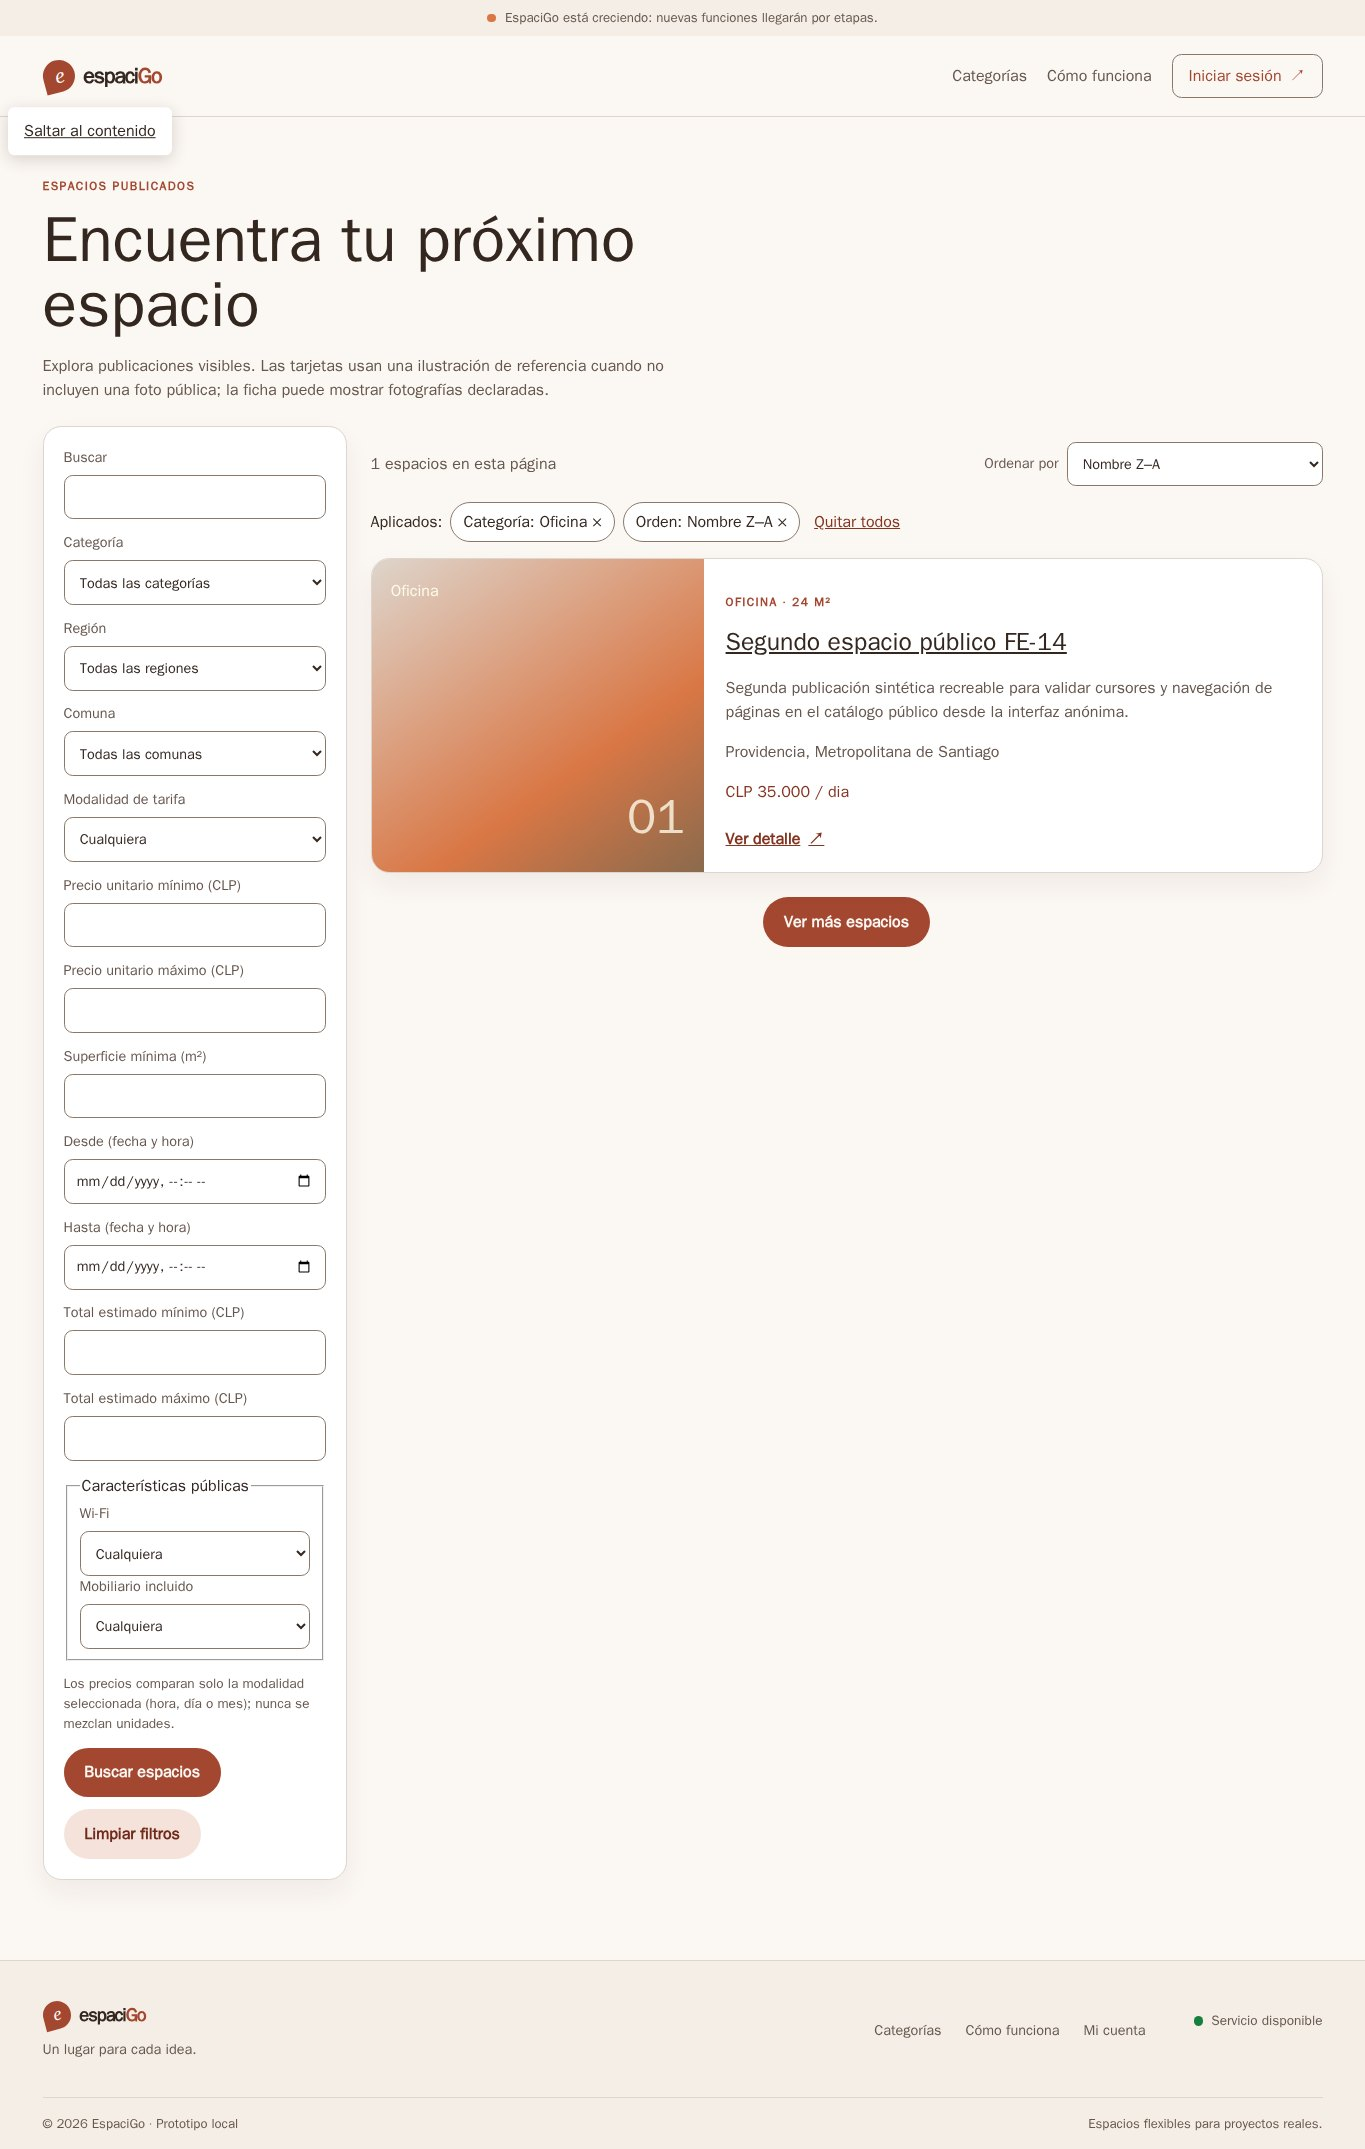
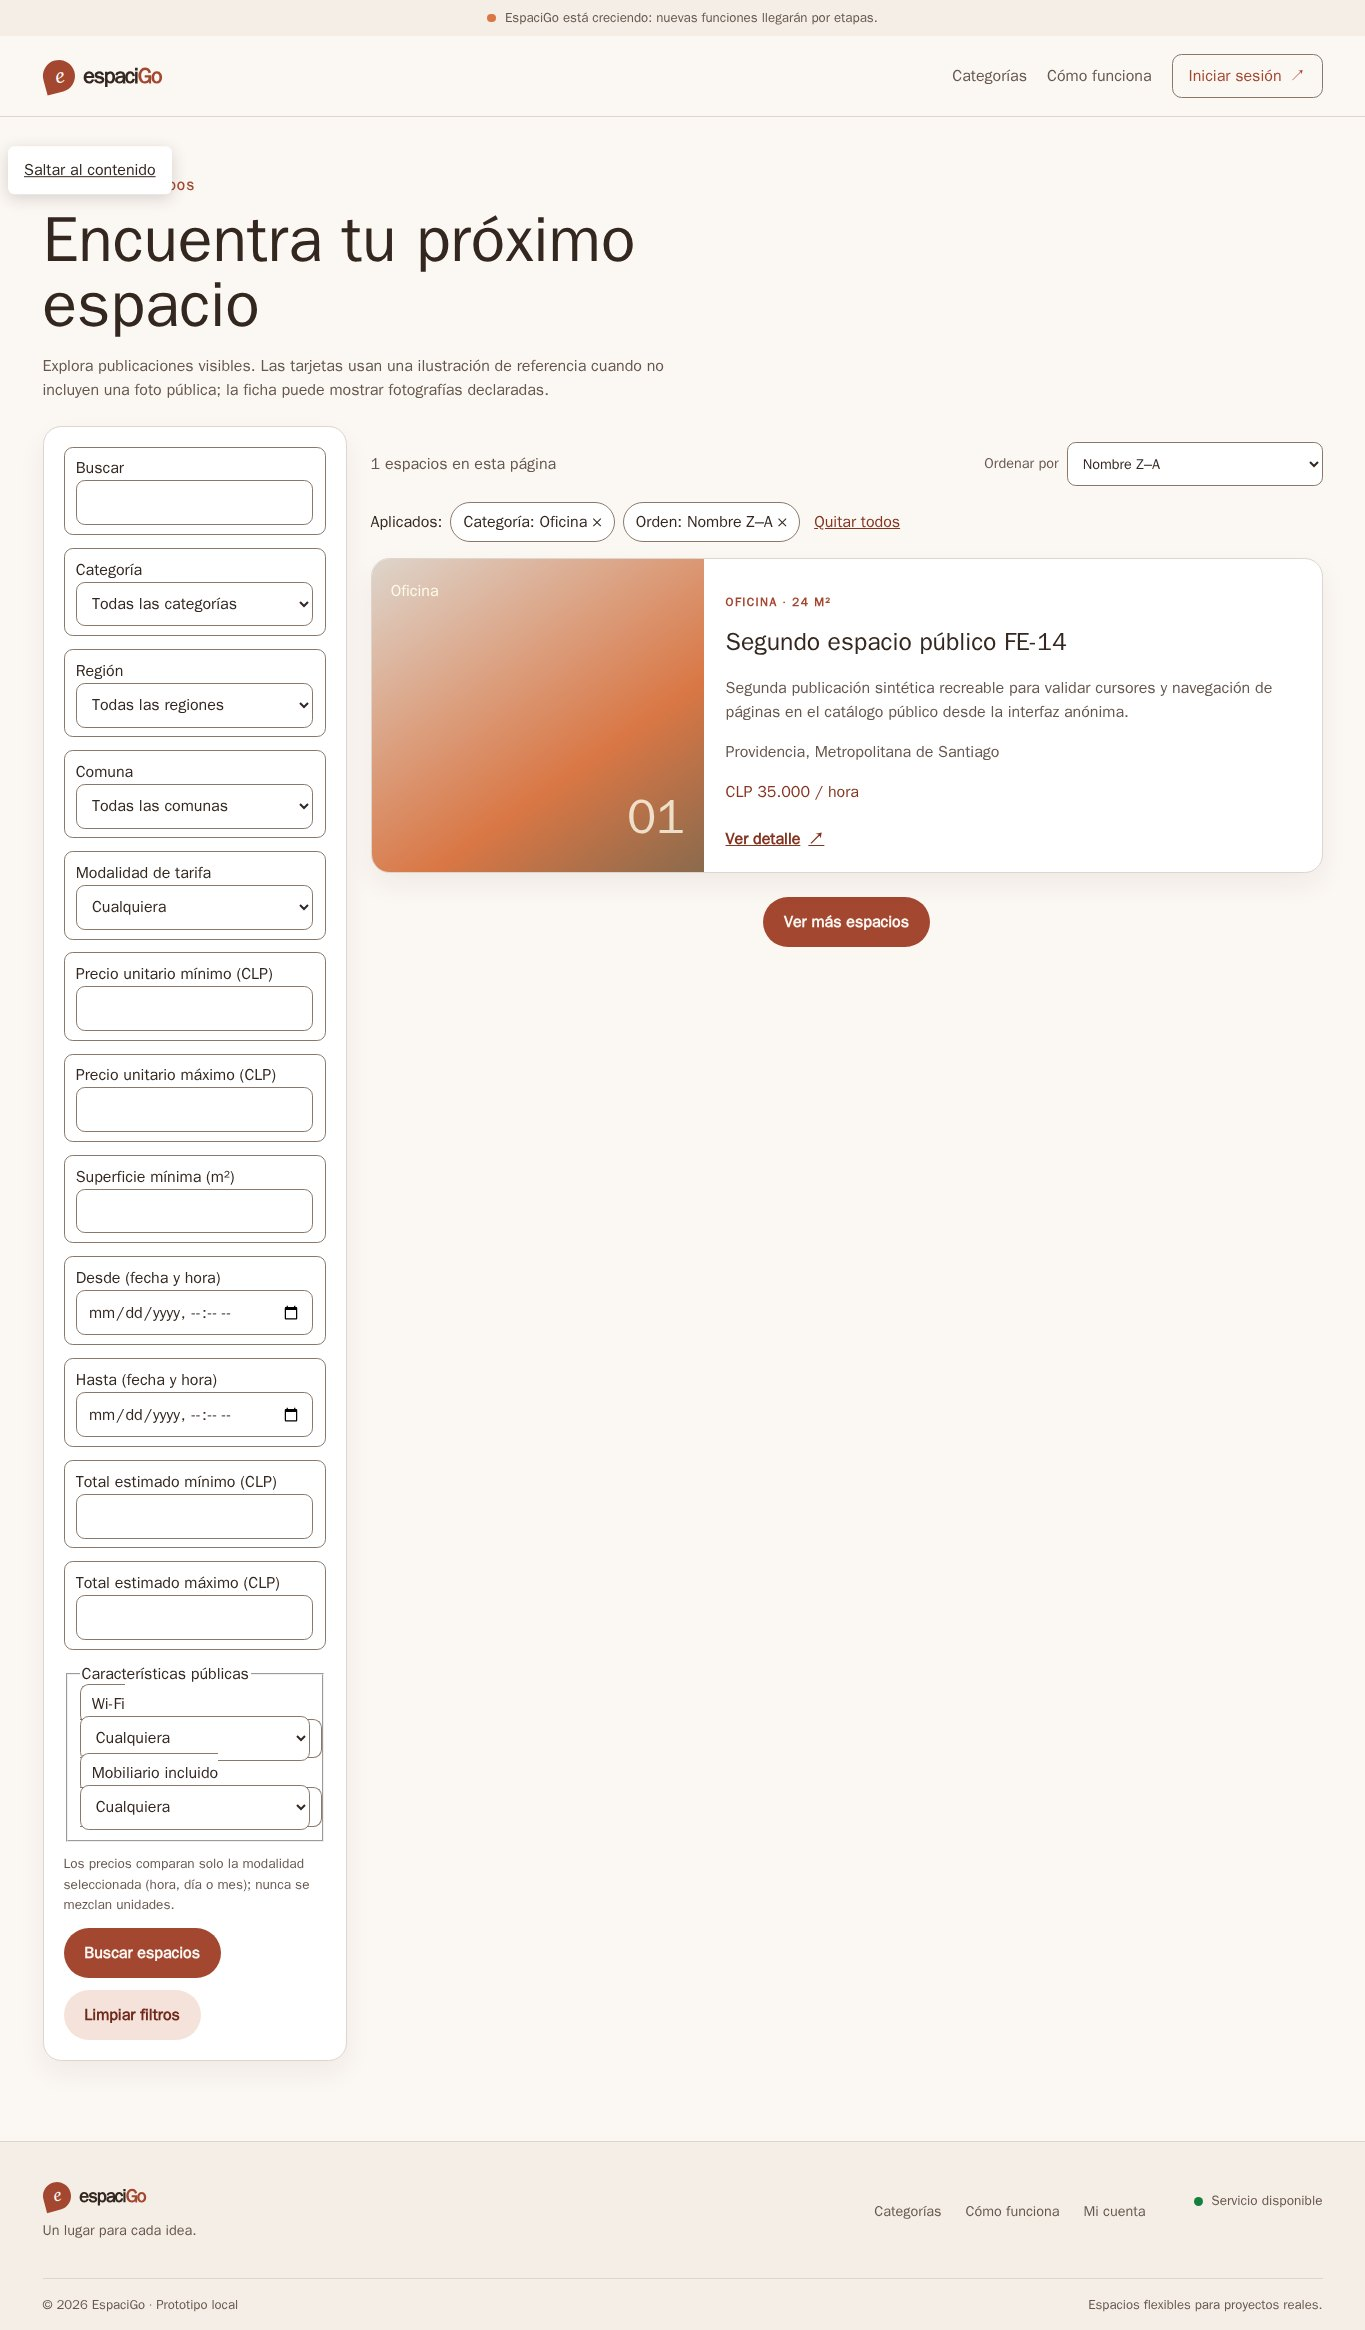
docs(marketplace): record requested sort fixes evidence

diff --git a/planning/marketplace_publico_v2/matriz_aceptacion.md b/planning/marketplace_publico_v2/matriz_aceptacion.md
@@ -45,8 +45,8 @@ Cada evidencia debe indicar commit probado, entorno, resultado y límite. Un tes
 | PUB-37 | 08 | Regresión privada | Identidad, oferta, reserva, pago fake, contratos, privacidad y administración siguen autorizados. | Suite enfocada + consolidada. | Pendiente |
 | PUB-38 | 09 | Demo y aceptación | Recorrido público→login contextual→reserva y retirada, commit fusionado/evidencias y aceptación explícita. | Registro del usuario y manifiesto. | Demo `6075b780…` lista; aceptación explícita del usuario pendiente |
 | PUB-39 | 10 | Jerarquía de búsqueda | Buscar encabeza controles y Categoría aparece inmediatamente después; cambiar categoría filtra resultados y limpia solo criterios incompatibles. | Inspección DOM/teclado + Router real/Go conectado. | Implementado; Router Angular cubierto; revisión visual desktop/móvil. La validación conectada del selector se evidencia en PUB-40. |
-| PUB-40 | 10 | Opciones de orden entendibles | Default y título A–Z/Z–A siempre disponibles; precio solicita modalidad explícita; relevancia requiere texto y total estimado intervalo; selector explica el requisito y permite completarlo sin unidad silenciosa. | Angular y API real: cambio de orden comprobado en resultados/URL. | Implementado; Angular 243 pruebas, Go/PostgreSQL con empates y páginas; E2E servido 1/1. Evidencia y límites en `evidencia/mpv2_10/README.md`. |
-| PUB-41 | 10 | Borrador al ordenar | Selector/aplicar/descartar declara qué criterios usa; cambiar orden no elimina silenciosamente borradores ni criterios ya confirmados; sort siempre reinicia cursor. | Pruebas de fachada/Router + recorrido desktop/móvil. | Implementado; pruebas de fachada/Router y E2E servido 1/1; capturas desktop/móvil en `evidencia/mpv2_10/`. |
+| PUB-40 | 10 | Opciones de orden entendibles | Default y título A–Z/Z–A siempre disponibles; precio solicita modalidad explícita; relevancia requiere texto y total estimado intervalo; selector explica el requisito y permite completarlo sin unidad silenciosa. | Angular y API real: cambio de orden comprobado en resultados/URL. | Implementado; Angular 248 pruebas, Go/PostgreSQL con empates y páginas; E2E servido 2/2, incluido precio Go ascendente/descendente con más de un precio. Evidencia y límites en `evidencia/mpv2_10/README.md`. |
+| PUB-41 | 10 | Borrador al ordenar | Selector/aplicar/descartar declara qué criterios usa; cambiar orden no elimina silenciosamente borradores ni criterios ya confirmados; sort siempre reinicia cursor. | Pruebas de fachada/Router + recorrido desktop/móvil. | Implementado; pruebas Router/DOM confirman Buscar + requisitos y el foco del intervalo en desktop/móvil; E2E servido 2/2; capturas desktop/móvil en `evidencia/mpv2_10/`. |
 
 ## Registro por corte
 
@@ -62,7 +62,7 @@ Cada evidencia debe indicar commit probado, entorno, resultado y límite. Un tes
 | MPV2-07 | [PR #301](https://github.com/HernanEspinozaDev/espaciGo/pull/301); rama `codex/marketplace/feature/mpv2-07-public-ssr-seo`; base `a285d4531279a8f93738712247f4f5c80cdeb9f6`; código probado `79fd5b79006e632108e7f690ce7195456e382c6d`; autor HernanMEC; revisión solicitada a HernanEspinozaDev | Sin migración; V1–V56 intactas | Sin cambios Go/OpenAPI; SSR/sitemap consumen API pública existente, páginas limitadas a 25, máximo 2,000 páginas y 49,996 fichas; timeout 25 s; falla con 503 si no puede completar inventario | Catálogo/ficha SSR por petición; canonical desde origen fijo; metadata social usa imagen pública proxy controlado; filtros con noindex/canonical limpio; rutas privadas CSR noindex/no-store; config del navegador versionada y SSR configurado por variables independientes | Fetch sin JS y detalle ausente 404; smoke de `npm start` con config local real prueba catálogo/ficha/imagen y Host; sitemap comparado con Go; host no confiable rechazado; pruebas concurrentes/hidratación sin repetición; respuestas 503 durante caída Go y 200 tras restaurar. Capturas 1365×900 y 390×844 | Angular 239/239, lint/arquitectura, api:check, build; FE-14 7/7 contra Go/PostgreSQL desechables, incluido smoke local SSR. Capturas/viewport/HEAD en evidencia/mpv2_07/README.md; entorno retirado y secretos temporales eliminados | Fusionado técnicamente en PR #301, merge `f259d50d92d44b2e68d180c9b2aef07b40e942a3`; aceptación final de producto pendiente. Sin aceptación final de producto ni garantía de indexación/ranking de Google |
 | MPV2-08 | [PR #302](https://github.com/HernanEspinozaDev/espaciGo/pull/302); rama `codex/marketplace/chore/mpv2-08-consolidated-regression`; base `f259d50d92d44b2e68d180c9b2aef07b40e942a3`; HEAD de código `14dc502b15c6eaf64782549cec7acfcd49f3b75e`; merge `6075b7800b45f15e779d11c3ab5853dadd26238e`; autor HernanMEC; revisión/aprobación HernanEspinozaDev | Sin migraciones ni OpenAPI; V1–V56 intactas. Upgrade desde V54 aplicó V55/V56 y preservó filas/nombres/checksums/timestamps V1–V54; fresh install validada | Límites: página 25, texto 120 runas, ubicación 400; Go read/write 10 s, idle 60 s. Fixture SQL 1.000/950 ofertas: 950/38 páginas; filtro complejo 63/3. EXPLAIN repetido por aprobador en PostgreSQL tmpfs separado: 14,344 ms inventario (15.287 shared hits), 4,692 ms cursor (846 hits), solo medición local. Sin cuota pública por IP ni 429/Retry-After; limitador confiable sigue requerido antes de mayor exposición | CORS/OPTIONS, SSR, E2E conectado 11/11: visitante, filtros/historial, retorno privado, roles, foto sintética retirada y caída/restauración; capturas/hash en evidencia/mpv2_08 | Backend unit/vet + 90 integraciones, 0 skips, upgrade 5/5; Angular 239/239, lint/arquitectura, api:check/build; Go ./... y vet. CI `38486628906` exitoso | Aprobado y fusionado técnicamente por HernanEspinozaDev; sin aceptación final de producto. No hay carga real, GCP, fotos ni pagos reales |
 | MPV2-09 | Guía [aceptacion_mpv2_09.md](aceptacion_mpv2_09.md), PR #303 fusionado; app probada `6075b7800b45f15e779d11c3ab5853dadd26238e` | Sin migración ni OpenAPI; V1–V56 intactas; Postgres aislado conservó V56 al reiniciar | Pila local loopback dedicada; publicaciones creadas por editor/Go: oficina/hora, bodega/día, quincho/mes; PNG sintéticos declarados públicos; host/renter KYC únicamente sintético | Visitor→búsqueda/ficha SSR, retorno contextual→cotización 200→reserva 201 fake; tercero bloqueado; retirada 404 y caída/restauración ejecutadas en regresión FE-14 temporal 7/7. Capturas nuevas desktop 1365×900/móvil 390×844 y hashes en evidencia/mpv2_09 | Health API/Angular 200, CORS permitido/rechazado, SSR catálogo/detalle 200; PostgreSQL reiniciado y datos confirmados; volumen/proyecto retenidos para revisión del usuario | **NO aceptado / cambios solicitados** por el usuario; fusiones técnicas válidas, no aceptación de producto. Rate limit IP/429, fotos reales, pagos y GCP fuera de demo |
-| MPV2-10 | Rama `codex/marketplace/fix/mpv2-10-ordering-and-filter-hierarchy`; base `ab9039beffa43eb70007e2db64546205cde4c21e`; HEAD `c0b3a664c1b1fcc0bad6cb32a7078b9522c6d3c9`; PR por crear | Fixture sintético suficiente para ocho categorías, empates y varias páginas; sin tocar V1–V56 | Orden estable título A–Z/Z–A en OpenAPI/SQL/cursor; documentar y verificar los prerrequisitos de los órdenes existentes | Buscar→Categoría; aplicar/descartar antes de sustituir borradores; precio por modalidad sin mezcla; URL/Atrás-Adelante/retorno coherentes | Go/PostgreSQL, Angular Router, recorrido servido y capturas desktop/móvil; límites en `evidencia/mpv2_10/README.md` | Implementado y validado localmente; revisión/fusión y aceptación del producto pendientes; MPV2-09 sigue NO aceptado |
+| MPV2-10 | PR #304; rama `codex/marketplace/fix/mpv2-10-ordering-and-filter-hierarchy`; base `ab9039beffa43eb70007e2db64546205cde4c21e`; código probado `ab24dae` | Fixture sintético suficiente para ocho categorías, empates y varias páginas; sin tocar V1–V56 | Orden estable título A–Z/Z–A en OpenAPI/SQL/cursor; documentar y verificar los prerrequisitos de los órdenes existentes | Buscar consume sort pendiente solo tras validar, requisitos guiados; aplicar/descartar/cancelar explícitos; precio CLP compara modalidad homogénea; URL/Atrás-Adelante/retorno coherentes | Go/PostgreSQL, Angular Router/DOM, recorrido servido 2/2 con precio real y capturas desktop/móvil; límites en `evidencia/mpv2_10/README.md` | Cambios solicitados corregidos en PR abierto; CI y revisión renovada pendientes; producto sigue NO aceptado |
 
 ## Bloqueos de cierre
 

diff --git a/planning/marketplace_publico_v2/evidencia/mpv2_10/README.md b/planning/marketplace_publico_v2/evidencia/mpv2_10/README.md
@@ -1,12 +1,14 @@
 # Evidencia de recorrido MPV2-10
 
-- Código probado: `c0b3a664c1b1fcc0bad6cb32a7078b9522c6d3c9` (`codex/marketplace/fix/mpv2-10-ordering-and-filter-hierarchy`), basado en `ab9039beffa43eb70007e2db64546205cde4c21e`.
-- Recorrido servido: FE-14 efímero con Angular, Go y PostgreSQL; Playwright verificó que Nombre A–Z/Z–A cambia resultados reales, que ordenar elimina el cursor y que Atrás/Adelante restaura el orden y el estado. Resultado: 1/1.
+- Código probado: `ab24dae` (`codex/marketplace/fix/mpv2-10-ordering-and-filter-hierarchy`), basado en `ab9039beffa43eb70007e2db64546205cde4c21e`.
+- Recorrido servido: FE-14 efímero con Angular, Go y PostgreSQL; Playwright verificó que Nombre A–Z/Z–A cambia resultados reales, que ordenar elimina el cursor y que Atrás/Adelante restaura el orden y el estado. También reprodujo el requisito de modalidad de precio, completó hora, pulsó «Aplicar y ordenar» y comprobó contra Go más de un resultado, precios diferentes y orden ascendente y descendente. Resultado: 2/2.
+- La búsqueda conserva el orden pendiente: valida sus requisitos antes de navegar, lo incorpora a la consulta al enviar Buscar y lo mantiene pendiente si falta un requisito o falla otra validación. El botón indica «Aplicar y ordenar» cuando consumirá ese orden. Las acciones Aplicar/Descartar/Cancelar del selector se conservan.
+- El foco desde las ayudas desktop y móvil apunta a los controles existentes `#rate-unit` y `#start-at`; la prueba DOM confirma que Desde recibe foco dentro de la interfaz pertinente.
 - Base de datos de integración: el test Go/PostgreSQL sembró ofertas sintéticas en las ocho categorías, con títulos que empatan por mayúsculas/minúsculas y las tres unidades CLP (hora/día/mes); recorrió varias páginas en ambos sentidos y comprobó ausencia de repeticiones y orden estable. No se agregó migración ni se modificó V1–V56.
-- Otras comprobaciones: Go `go test ./...` aprobado (las pruebas que necesitan una base de datos se ejecutaron aparte en PostgreSQL); Angular 243/243; lint; diseño tokens 13/13; arquitectura 16/16; `api:check`; build de producción; `git diff --check` y `bash -n scripts/test-frontend-e2e.sh`.
-- Build Angular: correcto con aviso de presupuesto SCSS de `explore-page.scss` excedido por 442 bytes (límite 8.00 kB; resultado 8.44 kB).
+- Otras comprobaciones: Go `go test ./...` aprobado (las pruebas que necesitan una base de datos se ejecutaron aparte en PostgreSQL); Angular 248/248; lint; diseño tokens 13/13; arquitectura 16/16; `api:check`; build de producción; `git diff --check` y `bash -n scripts/test-frontend-e2e.sh`.
+- Build Angular: correcto sin exceder el presupuesto SCSS. Se retiraron selectores sin uso (`.safety`, `.price-filter`, `.proximity-filter`, mapa sintético y `.text-button`) sin elevar el límite.
 - Capturas del catálogo público anónimo con fixture sintético recreable: escritorio 1365×900 y móvil 390×844. Los JSON adyacentes registran dimensiones del documento y el HEAD probado.
 - El stack FE-14 desechable y sus datos de ensayo se retiraron al terminar. No se usó la base persistente `espacigo_pgdata`, no se capturaron credenciales ni se prueban fotos reales.
 - Alcance de evidencia: no demuestra aceptación final de producto ni aprobación/fusión del PR. MPV2-09 sigue **NO aceptado / cambios solicitados**.
 
-Los hashes de los cuatro artefactos se registran en `SHA256SUMS`.
+Los sidecars registran dimensiones y el HEAD probado; los hashes de las cuatro capturas se registran en `SHA256SUMS`.
